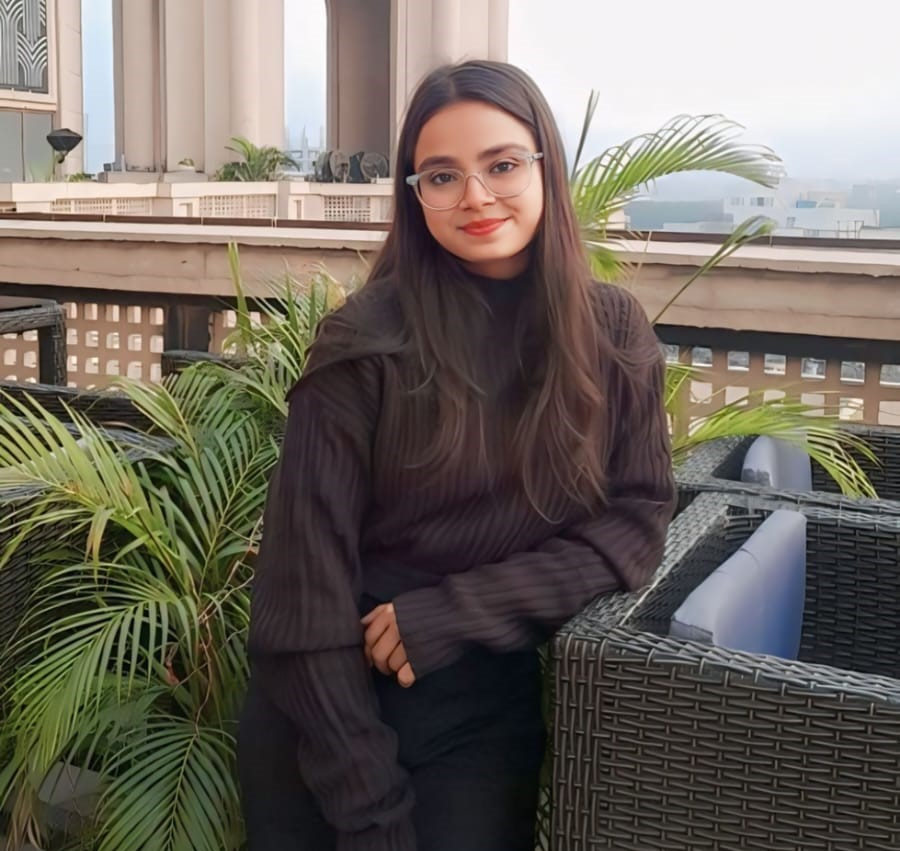
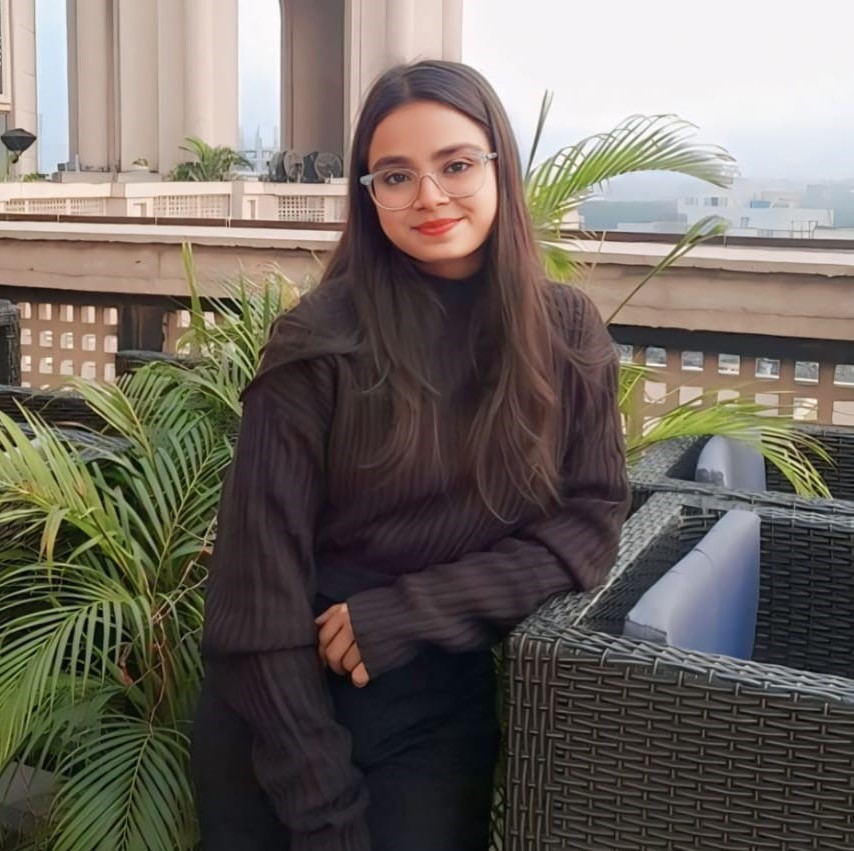
updates

diff --git a/main.html b/main.html
@@ -1,7 +1,6 @@
 <!DOCTYPE html>
 <html lang="en">
 <head>
-
     <meta charset="UTF-8">
     <meta http-equiv="X-UA-Compatible" content="IE=edge">
     <meta name="viewport" content="width=device-width, initial-scale=1.0"> 
@@ -16,7 +15,6 @@
                 <li class ="active"><a href="#">Home</a></li>
                 <li><a href="#">About</a></li>
                 <li><a href="#">Skills</a></li>
-                <li><a href="#">Experience</a></li>
                 <li><a href="#">Projects</a></li>
                 <li><a href="#">Contact</a></li>
             </ul>
@@ -46,8 +44,8 @@
                 <div class="btn-sci">
                     <a href="#" class="btn">Resume</a>
                     <div  class="sci">
-                        <a href="#"><i class='bx bxl-github'></i></a>
-                        <a href="#"><i class='bx bxl-linkedin-square'></i></a> 
+                        <a href="https://github.com/Harshita-codes"><i class='bx bxl-github'></i></a>
+                        <a href="https://www.linkedin.com/in/16jaiswal-harshita/"><i class='bx bxl-linkedin-square'></i></a> 
                     </div>
                 </div>
         </div>
@@ -55,11 +53,111 @@
         <div class="home-img">
             <div class="img-box">
                 <div class="img-item">
-                    <img src="Harshita_photo.jpg" alt="">
+                    <img src="Harshita_photo.jpg" alt="Harshita-image">
                 </div>
             </div>
         </div>
     </section>
+
+    <section class="about" id="about">
+        <div class="education-row">
+            <div class="education-column">
+                <h3 class="title">Education</h3>
+
+                <div class="education-box">
+                    <div class="education-content">
+                        <div class="content">
+                            <div class="year"><i class='bx bxs-calendar'></i>2022-2026</div> 
+                                <h3>Bachelor of Technology in Computer Science and Engineering</h3>
+                                <p>Shri Ramswaroop Memorial College of Engineering and Management , Lucknow</p>
+                                <p>CGPA- 7.5 (upto 4th sem)</p>
+                        </div>
+                    </div>
+
+                 <div class="education-content">
+                    <div class="content">
+                        <div class="year"><i class='bx bxs-calendar'></i>2020-2022</div> 
+                                <h3>Intermediate (10+2)</h3>
+                                <p>Little Flower School, Gorakhpur</p>
+                                <p>Percentage- 85%</p>
+                        </div>
+                 </div>
+
+                 <div class="education-content">
+                    <div class="content">
+                        <div class="year"><i class='bx bxs-calendar'></i>2019-2020</div> 
+                                <h3>High School</h3>
+                                <p>Little Flower School, Gorakhpur</p>
+                                <p>Percentage- 81%</p>
+                        </div>
+                    </div>
+                </div>
+            </div>
+
+            <div class="education-column">
+                <h3 class="title">Experience</h3>
+
+                <div class="education-box">
+                    <div class="education-content">
+                        <div class="content">
+                            <div class="year"><i class='bx bxs-calendar'></i>2023</div> 
+                                <h3>Internship at IBM</h3>
+                                <p>I have gained valuable experience in big data handling and analysis, allowing me to work with large datasets efficiently. Additionally, I have completed a comprehensive course on Python fundamentals, strengthening my programming skills. I have also developed a solid understanding of cloud essentials, enabling me to work with cloud-based technologies. Furthermore, I have built and enhanced full-stack web applications, improving both frontend and backend functionalities to create more efficient and user-friendly solutions.</p>
+                        </div>
+                    </div>
+
+                 <div class="education-content">
+                    <div class="content">
+                        <div class="year"><i class='bx bxs-calendar'></i>2024</div> 
+                                <h3>Internship at IBM</h3>
+                                <p>I have pursued a course in Data Science, gaining insights into data analysis, machine learning, and statistical modeling. Additionally, I am currently learning about the fundamentals of Artificial Intelligence, exploring key concepts such as neural networks, deep learning, and AI-driven problem-solving techniques.</p>
+                        </div>
+                 </div>
+            </div>
+    </section>
+
+    <section class="skills" id="skills">
+        <h2 class="heading">My <span>Skills</span></h2>
+
+        <div class="skills-row">
+            <div class="skills-column">
+                <h3 class="title">Coding Skills</h3>
+</section>
+
+    <section class="skills" id="skills">
+        <h2 class="heading">My <span>Skills</span></h2>
+        <div class="resume-list">
+            <div class="resume-item">
+                <i class="bx bxl-html5"></i>
+                <span>HTML</span>
+            </div>
+            <div class="resume-item">
+                <i class="bx bxl-css3"></i>
+                <span>CSS</span>
+            </div>
+            <div class="resume-item">
+                <i class="bx bxl-javascript"></i>
+                <span>JavaScript</span>
+            </div>
+            <div class="resume-item">
+                <i class="bx bxl-python"></i>
+                <span>Python</span>
+            </div>
+            <div class="resume-item">
+                <i class="bx bxl-java"></i>
+                <span>Java</span>
+            </div>
+            <div class="resume-item">
+                <i class="bx bxl-c-plus-plus"></i>
+                <span>C++</span>
+            </div>
+            <div class="resume-item">
+                <i class="bx bxl-c"></i>
+                <span>C</span>
+            </div>
+        </div>
+    </section>
+
 
 </body>
 </html>

diff --git a/style.css b/style.css
@@ -68,7 +68,6 @@ body{
     margin: none;
     width: 100%;
     padding: none;
-    opacity: 0.5; 
     position: relative;
 }
 
@@ -192,7 +191,7 @@ body{
     overflow: hidden;
 }
 
-.home-img .img-box:before
+.home-img .img-box:before,
 .home-img .img-box:after{
     content:'';
     position:absolute;
@@ -201,6 +200,8 @@ body{
     background: conic-gradient(transparent, transparent, transparent, #7cf03d);
     transform: rotate(0deg);
     animation: rotate-border 10s linear infinite;
+    border-radius: 50%;
+    border:15px;
 }
 
 .home-img .img-box:after{
@@ -232,8 +233,8 @@ body{
     width:855;
     object-fit:cover;
     object-position: center;
-    top:30px;
     mix-blend-mode: lighten;
+    border-radius:50%;
 }
 
 .bars-animation{
@@ -250,7 +251,7 @@ body{
     background:#1f242d;
     transform: translateY(-100%);
     animation: show-bars .5s ease-in-out forwards;
-    animation-delay:calc(.1s*var(--i));
+    animation-delay:calc(.1s * var(--i));
 }
 
 @keyframes show-bars{
@@ -258,6 +259,133 @@ body{
         transform: translateY(0%);
     }
 }
+
+.about{
+    display:flex;
+    justify-content: center;
+    align-items: center;
+    flex-direction: column;
+    min-height: auto;
+    padding-bottom: 5rem;
+    color:#fff;
+}
+
+.about .education-row{
+    display:flex;
+    flex-wrap: wrap;
+    gap:5rem;
+}
+
+.education-row .education-column{
+    flex:0 0 38rem;
+}
+
+.education-column .title{
+    font-size:35px;
+    margin:0 0 1.5rem 2rem;
+}
+
+.education-column .education-box{
+    border-left: .2rem solid #7cf03d;
+}
+
+.education-box .education-content{
+    position:relative;
+    padding-left: 2rem;
+}
+
+.education-box .education-content::before{
+    content:'';
+    position:absolute;
+    top:0; 
+    left:-1.1rem;
+    height:2rem;
+    width:2rem;
+    background:#7cf03d;
+    border-radius:50%;
+}
+
+.education-content .content{
+    position:relative;
+    padding:1.0rem;
+    padding-bottom: 0px;
+    border: .2rem solid #7cf03d;
+    border-radius: .6rem;
+    margin-bottom: 2rem;
+    overflow: hidden;
+    cursor: pointer;
+}
+
+.education-content .content::before{
+    content:'';
+    position:absolute;
+    top:0; 
+    left:0;
+    height:100%;
+    width:0;
+    background:#000000;
+    transition:.5s;
+    z-index:-1;
+}
+
+.education-content .content:hover::before{
+    width:100%;
+}
+
+.education-content .content .year{
+    font-size: 1.5rem;
+    color:#7cf03d;
+    padding-bottom: .5rem;
+}
+
+.education-content .content .year i{
+    padding-right: .5rem;
+}
+
+.education-content .content h3{
+    font-size: 1.6rem;
+}
+
+.education-content .content p{
+    font-size: 16px;
+    padding:.5rem 0;
+}
+
+.resume-list{
+    display:grid;
+    grid-template-columns: repeat(auto-fit, minmax(30rem, 1fr));
+    gap:2rem;
+    height:45rem;
+    overflow:auto;
+}
+
+.resume-list::-webkit-scrollbar{
+    width:.7rem;
+}
+
+.resume-list::-webkit-scrollbar-thumb{
+    background:transparent;
+    border-radius:1rem;
+}
+
+.resume-list:hover::-webkit-scrollbar-thumb{
+    background:#7cf03d;
+}
+
+.resume-list .resume-item{
+    padding:3rem 2.5rem;
+    border-radius:.8rem;
+    background:#1f242d;
+    box-shadow: 0px 0px 20px rgba(0, 0, 0, 0.1);
+    display:flex;
+    height: calc((45rem - 2rem) / 2);
+    flex-direction: column;
+    justify-content: center;
+}
+
+
+    
+
 
 
 
